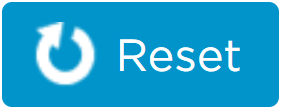
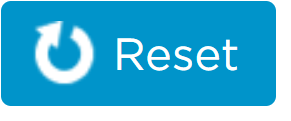
Start over, reset buttons work. Run and reset look better.

diff --git a/BirdCommand/BirdCommandMain.cs b/BirdCommand/BirdCommandMain.cs
@@ -19,6 +19,7 @@ namespace BirdCommand
     {
         public static int CELL_SIZE = 50;
         BirdCell theBird;
+        Point originalBirdPosition;
         StartCell theStart;
         bool addBird = false, addEmpty = false;
 
@@ -44,6 +45,7 @@ namespace BirdCommand
             toolTip1.SetToolTip(toAddEmptyButton, "Add an empty cell (Click here and then click to the canvas)");
             toolTip1.SetToolTip(addRuleButton, "Add an empty rule to the next available place in the program");
             toolTip1.SetToolTip(resetButton, "Move the bird back to the original position in the maze");
+            toolTip1.SetToolTip(startOverButton, "This will reset the puzzle to its start state and delete all the blocks you've added or changed.");
 
             //designer_trafo.Document.AddElement(label);
 
@@ -124,6 +126,7 @@ namespace BirdCommand
             LevelDesigner.Level1(designer_board);
 
             theBird = (BirdCell)designer_board.Document.Elements.GetArray().Where(e => e is BirdCell).First();
+            originalBirdPosition = theBird.Location;
         }
 
         void LoadLevel2()
@@ -134,6 +137,7 @@ namespace BirdCommand
             LevelDesigner.Level2(designer_board);
 
             theBird = (BirdCell)designer_board.Document.Elements.GetArray().Where(e => e is BirdCell).First();
+            originalBirdPosition = theBird.Location;
         }
 
         void LoadLevel3()
@@ -144,6 +148,7 @@ namespace BirdCommand
             LevelDesigner.Level3(designer_board);
 
             theBird = (BirdCell)designer_board.Document.Elements.GetArray().Where(e => e is BirdCell).First();
+            originalBirdPosition = theBird.Location;
         }
 
         private void button1_Click(object sender, EventArgs e)
@@ -268,51 +273,6 @@ namespace BirdCommand
                 TrafoUtil.FindPostConditionElements(designer_trafo.Document.Elements.GetArray().ToList(),
                     (RuleCell)designer_trafo.Document.SelectedElements.GetArray().Where(el => el is RuleCell).First()));
             MessageBox.Show("RuleType: " + ruleType);
-        }
-
-        private void button15_Click(object sender, EventArgs e)
-        {
-            // TODO take empty or other scenarios into account
-            // TODO run slowly step by step highlighting the current rule
-            var allRules = designer_trafo.Document.Elements.GetArray().Where(el => el is RuleCell).ToList();
-            allRules.Sort((a, b) => { return a.Location.Y - b.Location.Y; });
-            foreach (var rule in allRules)
-            {
-                var ruleType = TrafoUtil.IdentifyRuleType(
-                    TrafoUtil.FindPreConditionElements(designer_trafo.Document.Elements.GetArray().ToList(),
-                        rule),
-                    TrafoUtil.FindPostConditionElements(designer_trafo.Document.Elements.GetArray().ToList(),
-                        rule));
-                for (int i = 0; i < ((RuleCell)rule).RuleCount; i++)
-                {
-                    if (TrafoUtil.DoesPatternExist(designer_board.Document.Elements.GetArray().ToList(), TrafoUtil.FindPreConditionElements(designer_trafo.Document.Elements.GetArray().ToList(),
-                            rule)))
-                    {
-                        // TODO pattern exists for other move forward or turn rules than the one in the model, should find a solution
-                        switch (ruleType)
-                        {
-                            case RuleType.TurnRight:
-                                theBird.TurnRight();
-                                break;
-                            case RuleType.TurnLeft:
-                                theBird.TurnLeft();
-                                break;
-                            case RuleType.Turn180:
-                                theBird.TurnRight();
-                                theBird.TurnRight();
-                                break;
-                            case RuleType.MoveForward:
-                                theBird.MoveForward();
-                                break;
-                        }
-                    }
-                    else
-                    {
-                        MessageBox.Show("Pattern doesn't exist!");
-                    }
-                }
-            }
-
         }
 
         private void button16_Click(object sender, EventArgs e)
@@ -491,13 +451,84 @@ namespace BirdCommand
             DialogResult dialogResult = MessageBox.Show("This will reset the puzzle to its start state and delete all the blocks you've added or changed.", "Are you sure you want to start over?", MessageBoxButtons.YesNo,MessageBoxIcon.Question);
             if (dialogResult == DialogResult.Yes)
             {
-                // TODO
+                if (theBird != null)
+                    theBird.Location = originalBirdPosition;
+                foreach (var element in designer_trafo.Document.Elements.GetArray().Where(el => !(el is StartCell)))
+                {
+                    designer_trafo.Document.DeleteElement(element);
+                }
             }
         }
 
-        private void resetButton_Click(object sender, EventArgs e)
+
+        private void runButton_MouseEnter(object sender, EventArgs e)
         {
-            // TODO
+            runButton.BackgroundImage = Resources.run_button_over;
+        }
+
+        private void runButton_MouseLeave(object sender, EventArgs e)
+        {
+            runButton.BackgroundImage = Resources.run_button;
+        }
+
+        private void resetButton_MouseEnter(object sender, EventArgs e)
+        {
+            resetButton.BackgroundImage = Resources.reset_button_over;
+        }
+
+        private void resetButton_MouseLeave(object sender, EventArgs e)
+        {
+            resetButton.BackgroundImage = Resources.reset_button;
+        }
+
+        private void runButton_Click(object sender, EventArgs e)
+        {
+            // TODO take empty or other scenarios into account
+            // TODO run slowly step by step highlighting the current rule
+            var allRules = designer_trafo.Document.Elements.GetArray().Where(el => el is RuleCell).ToList();
+            allRules.Sort((a, b) => { return a.Location.Y - b.Location.Y; });
+            foreach (var rule in allRules)
+            {
+                var ruleType = TrafoUtil.IdentifyRuleType(
+                    TrafoUtil.FindPreConditionElements(designer_trafo.Document.Elements.GetArray().ToList(),
+                        rule),
+                    TrafoUtil.FindPostConditionElements(designer_trafo.Document.Elements.GetArray().ToList(),
+                        rule));
+                for (int i = 0; i < ((RuleCell)rule).RuleCount; i++)
+                {
+                    if (TrafoUtil.DoesPatternExist(designer_board.Document.Elements.GetArray().ToList(), TrafoUtil.FindPreConditionElements(designer_trafo.Document.Elements.GetArray().ToList(),
+                            rule)))
+                    {
+                        // TODO pattern exists for other move forward or turn rules than the one in the model, should find a solution
+                        switch (ruleType)
+                        {
+                            case RuleType.TurnRight:
+                                theBird.TurnRight();
+                                break;
+                            case RuleType.TurnLeft:
+                                theBird.TurnLeft();
+                                break;
+                            case RuleType.Turn180:
+                                theBird.TurnRight();
+                                theBird.TurnRight();
+                                break;
+                            case RuleType.MoveForward:
+                                theBird.MoveForward();
+                                break;
+                        }
+                    }
+                    else
+                    {
+                        MessageBox.Show("Pattern doesn't exist!");
+                    }
+                }
+            }
+        }
+
+        private void resetButton_Click_1(object sender, EventArgs e)
+        {
+            if(theBird != null)
+                theBird.Location = originalBirdPosition;
         }
 
         private void button8_Click(object sender, EventArgs e)

diff --git a/BirdCommand/BirdCommandMain.Designer.cs b/BirdCommand/BirdCommandMain.Designer.cs
@@ -51,7 +51,6 @@ namespace BirdCommand
             this.button12 = new System.Windows.Forms.Button();
             this.button13 = new System.Windows.Forms.Button();
             this.button14 = new System.Windows.Forms.Button();
-            this.runButton = new System.Windows.Forms.Button();
             this.pictureBox1 = new System.Windows.Forms.PictureBox();
             this.button16 = new System.Windows.Forms.Button();
             this.button17 = new System.Windows.Forms.Button();
@@ -72,14 +71,17 @@ namespace BirdCommand
             this.turnLeftButton = new System.Windows.Forms.Button();
             this.turnRightButton = new System.Windows.Forms.Button();
             this.toolTip1 = new System.Windows.Forms.ToolTip(this.components);
-            this.resetButton = new System.Windows.Forms.Button();
             this.startOverButton = new System.Windows.Forms.PictureBox();
+            this.runButton = new System.Windows.Forms.PictureBox();
+            this.resetButton = new System.Windows.Forms.PictureBox();
             this.panel1.SuspendLayout();
             ((System.ComponentModel.ISupportInitialize)(this.pictureBox1)).BeginInit();
             this.panel3.SuspendLayout();
             this.debugPanel.SuspendLayout();
             this.panel4.SuspendLayout();
             ((System.ComponentModel.ISupportInitialize)(this.startOverButton)).BeginInit();
+            ((System.ComponentModel.ISupportInitialize)(this.runButton)).BeginInit();
+            ((System.ComponentModel.ISupportInitialize)(this.resetButton)).BeginInit();
             this.SuspendLayout();
             // 
             // button1
@@ -303,18 +305,6 @@ namespace BirdCommand
             this.button14.Text = "Identify Rule Type";
             this.button14.UseVisualStyleBackColor = true;
             this.button14.Click += new System.EventHandler(this.button14_Click);
-            // 
-            // runButton
-            // 
-            this.runButton.BackgroundImage = global::BirdCommand.Properties.Resources.run_button;
-            this.runButton.BackgroundImageLayout = System.Windows.Forms.ImageLayout.Zoom;
-            this.runButton.ForeColor = System.Drawing.Color.Transparent;
-            this.runButton.Location = new System.Drawing.Point(16, 514);
-            this.runButton.Name = "runButton";
-            this.runButton.Size = new System.Drawing.Size(135, 61);
-            this.runButton.TabIndex = 22;
-            this.runButton.UseVisualStyleBackColor = true;
-            this.runButton.Click += new System.EventHandler(this.button15_Click);
             // 
             // pictureBox1
             // 
@@ -554,17 +544,6 @@ namespace BirdCommand
             this.turnRightButton.UseVisualStyleBackColor = true;
             this.turnRightButton.Click += new System.EventHandler(this.turnRightButton_Click);
             // 
-            // resetButton
-            // 
-            this.resetButton.BackgroundImage = global::BirdCommand.Properties.Resources.reset_button;
-            this.resetButton.BackgroundImageLayout = System.Windows.Forms.ImageLayout.Zoom;
-            this.resetButton.Location = new System.Drawing.Point(157, 514);
-            this.resetButton.Name = "resetButton";
-            this.resetButton.Size = new System.Drawing.Size(137, 61);
-            this.resetButton.TabIndex = 32;
-            this.resetButton.UseVisualStyleBackColor = true;
-            this.resetButton.Click += new System.EventHandler(this.resetButton_Click);
-            // 
             // startOverButton
             // 
             this.startOverButton.Anchor = ((System.Windows.Forms.AnchorStyles)((System.Windows.Forms.AnchorStyles.Top | System.Windows.Forms.AnchorStyles.Right)));
@@ -581,14 +560,41 @@ namespace BirdCommand
             this.startOverButton.MouseEnter += new System.EventHandler(this.startOverButton_MouseEnter);
             this.startOverButton.MouseLeave += new System.EventHandler(this.startOverButton_MouseLeave);
             // 
+            // runButton
+            // 
+            this.runButton.BackgroundImage = global::BirdCommand.Properties.Resources.run_button;
+            this.runButton.BackgroundImageLayout = System.Windows.Forms.ImageLayout.Zoom;
+            this.runButton.Location = new System.Drawing.Point(16, 520);
+            this.runButton.Name = "runButton";
+            this.runButton.Size = new System.Drawing.Size(124, 57);
+            this.runButton.TabIndex = 34;
+            this.runButton.TabStop = false;
+            this.runButton.Click += new System.EventHandler(this.runButton_Click);
+            this.runButton.MouseEnter += new System.EventHandler(this.runButton_MouseEnter);
+            this.runButton.MouseLeave += new System.EventHandler(this.runButton_MouseLeave);
+            // 
+            // resetButton
+            // 
+            this.resetButton.BackgroundImage = global::BirdCommand.Properties.Resources.reset_button;
+            this.resetButton.BackgroundImageLayout = System.Windows.Forms.ImageLayout.Zoom;
+            this.resetButton.Location = new System.Drawing.Point(146, 520);
+            this.resetButton.Name = "resetButton";
+            this.resetButton.Size = new System.Drawing.Size(135, 57);
+            this.resetButton.TabIndex = 35;
+            this.resetButton.TabStop = false;
+            this.resetButton.Click += new System.EventHandler(this.resetButton_Click_1);
+            this.resetButton.MouseEnter += new System.EventHandler(this.resetButton_MouseEnter);
+            this.resetButton.MouseLeave += new System.EventHandler(this.resetButton_MouseLeave);
+            // 
             // BirdCommandMain
             // 
             this.AutoScaleDimensions = new System.Drawing.SizeF(6F, 13F);
             this.AutoScaleMode = System.Windows.Forms.AutoScaleMode.Font;
             this.BackColor = System.Drawing.Color.White;
             this.ClientSize = new System.Drawing.Size(1269, 855);
-            this.Controls.Add(this.startOverButton);
             this.Controls.Add(this.resetButton);
+            this.Controls.Add(this.runButton);
+            this.Controls.Add(this.startOverButton);
             this.Controls.Add(this.panel4);
             this.Controls.Add(this.label4);
             this.Controls.Add(this.debugPanel);
@@ -596,7 +602,6 @@ namespace BirdCommand
             this.Controls.Add(this.label2);
             this.Controls.Add(this.label1);
             this.Controls.Add(this.pictureBox1);
-            this.Controls.Add(this.runButton);
             this.Controls.Add(this.panel1);
             this.Controls.Add(this.designer_board);
             this.Controls.Add(this.panel2);
@@ -612,6 +617,8 @@ namespace BirdCommand
             this.debugPanel.PerformLayout();
             this.panel4.ResumeLayout(false);
             ((System.ComponentModel.ISupportInitialize)(this.startOverButton)).EndInit();
+            ((System.ComponentModel.ISupportInitialize)(this.runButton)).EndInit();
+            ((System.ComponentModel.ISupportInitialize)(this.resetButton)).EndInit();
             this.ResumeLayout(false);
 
         }
@@ -637,7 +644,6 @@ namespace BirdCommand
         private System.Windows.Forms.Button button12;
         private System.Windows.Forms.Button button13;
         private System.Windows.Forms.Button button14;
-        private System.Windows.Forms.Button runButton;
         private System.Windows.Forms.PictureBox pictureBox1;
         private System.Windows.Forms.Button button16;
         private System.Windows.Forms.Button button17;
@@ -658,8 +664,9 @@ namespace BirdCommand
         private System.Windows.Forms.Button increaseRuleCountButton;
         private System.Windows.Forms.Button decreaseRuleCountButton;
         private System.Windows.Forms.Button copyLhsToRhsButton;
-        private System.Windows.Forms.Button resetButton;
         private System.Windows.Forms.PictureBox startOverButton;
+        private System.Windows.Forms.PictureBox runButton;
+        private System.Windows.Forms.PictureBox resetButton;
     }
 }
 

diff --git a/BirdCommand/Properties/Resources.Designer.cs b/BirdCommand/Properties/Resources.Designer.cs
@@ -291,6 +291,16 @@ namespace BirdCommand.Properties {
         /// <summary>
         ///   Looks up a localized resource of type System.Drawing.Bitmap.
         /// </summary>
+        internal static System.Drawing.Bitmap reset_button_over {
+            get {
+                object obj = ResourceManager.GetObject("reset_button_over", resourceCulture);
+                return ((System.Drawing.Bitmap)(obj));
+            }
+        }
+        
+        /// <summary>
+        ///   Looks up a localized resource of type System.Drawing.Bitmap.
+        /// </summary>
         internal static System.Drawing.Bitmap rule {
             get {
                 object obj = ResourceManager.GetObject("rule", resourceCulture);
@@ -314,6 +324,16 @@ namespace BirdCommand.Properties {
         internal static System.Drawing.Bitmap run_button {
             get {
                 object obj = ResourceManager.GetObject("run_button", resourceCulture);
+                return ((System.Drawing.Bitmap)(obj));
+            }
+        }
+        
+        /// <summary>
+        ///   Looks up a localized resource of type System.Drawing.Bitmap.
+        /// </summary>
+        internal static System.Drawing.Bitmap run_button_over {
+            get {
+                object obj = ResourceManager.GetObject("run_button_over", resourceCulture);
                 return ((System.Drawing.Bitmap)(obj));
             }
         }
